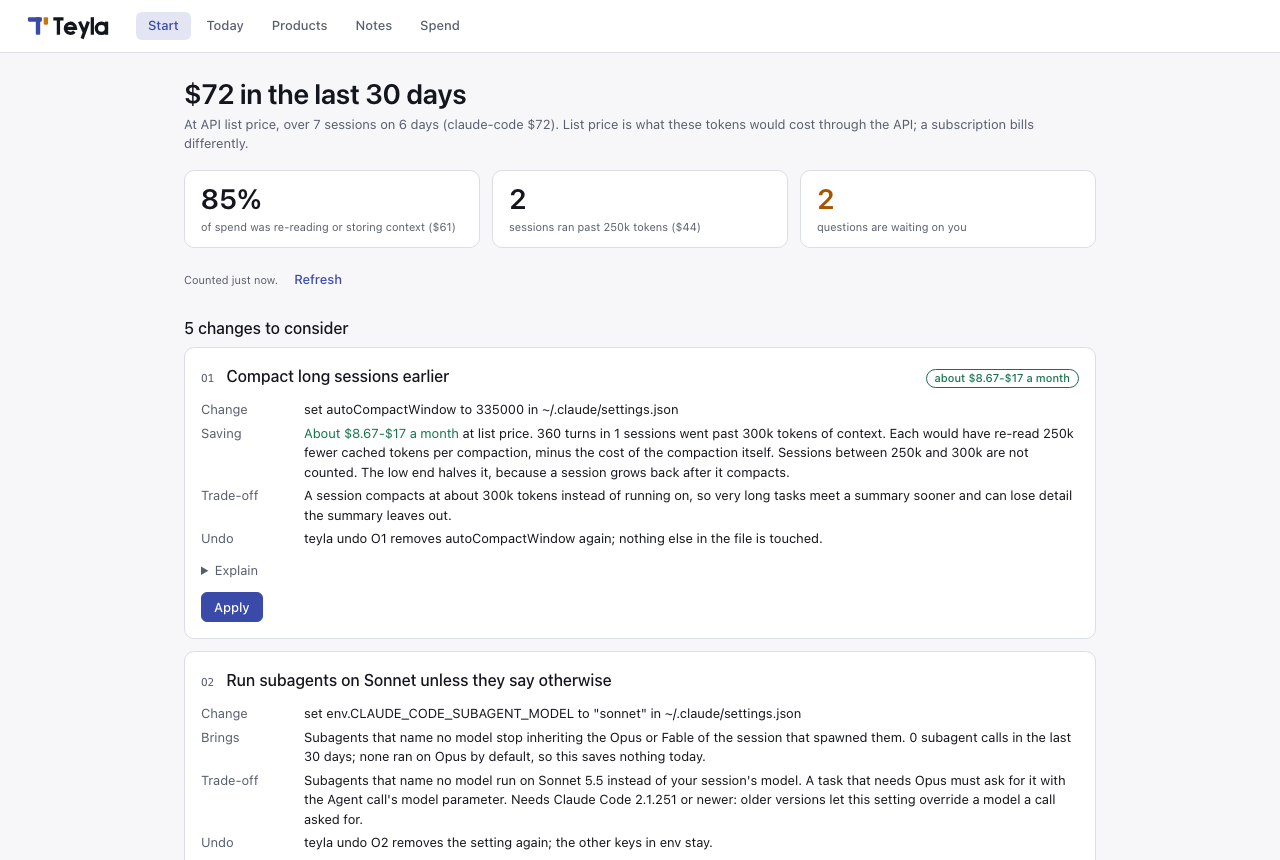
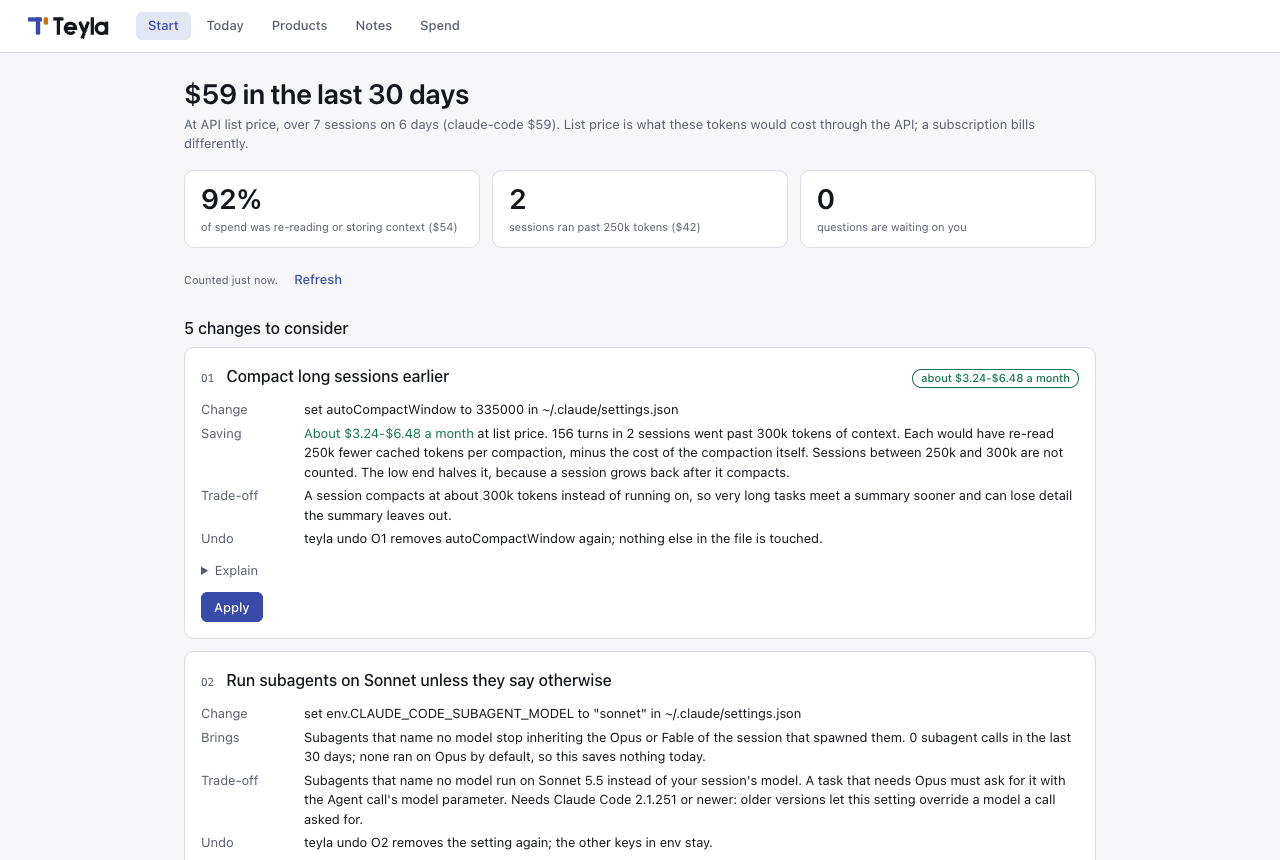
Refresh the Start screenshot from invented sessions; singular counts on the Start page

diff --git a/src/teyla/web/app.js b/src/teyla/web/app.js
@@ -32,6 +32,7 @@
 
   const money = (x) => (x >= 10 ? "$" + Math.round(x).toLocaleString("en-US") : "$" + x.toFixed(2));
   const pct = (x) => Math.round(x * 100) + "%";
+  const count = (n, word) => n + " " + word + (n === 1 ? "" : "s");
   const sleep = (ms) => new Promise((r) => setTimeout(r, ms));
 
   function ageS(s) {
@@ -187,10 +188,10 @@
       const t = (num, lbl, cls) => h("div", { class: "stat" }, h("div", { class: "num " + (cls || "") }, num), h("div", { class: "lbl" }, lbl));
       const out = [
         t(pct(d.context_share), "of spend was re-reading or storing context (" + money(d.context_usd) + ")"),
-        t(String(d.long_sessions), "sessions ran past " + Math.round(d.long_context_tokens / 1000) + "k tokens (" + money(d.long_sessions_usd) + ")"),
+        t(String(d.long_sessions), (d.long_sessions === 1 ? "session" : "sessions") + " ran past " + Math.round(d.long_context_tokens / 1000) + "k tokens (" + money(d.long_sessions_usd) + ")"),
       ];
       if (d.subagent_usd) out.push(t(money(d.subagent_usd), "went to subagents; Opus ran " + pct(d.subagent_opus_share) + " of it"));
-      out.push(t(String(d.waiting_asks), "questions are waiting on you", d.waiting_asks ? "needs" : ""));
+      out.push(t(String(d.waiting_asks), d.waiting_asks === 1 ? "question is waiting on you" : "questions are waiting on you", d.waiting_asks ? "needs" : ""));
       return h("div", { class: "stats" }, out);
     }
 
@@ -206,7 +207,7 @@
       const by = Object.entries(d.by_harness).slice(0, 3).map(([k, v]) => k + " " + money(v)).join(", ");
       return [
         h("h1", null, money(d.total_usd) + " in the last " + d.days + " days"),
-        h("p", { class: "sub" }, "At API list price, over " + d.sessions + " sessions on " + d.active_days + " days" + (by ? " (" + by + ")" : "") + ". " + d.note),
+        h("p", { class: "sub" }, "At API list price, over " + count(d.sessions, "session") + " on " + count(d.active_days, "day") + (by ? " (" + by + ")" : "") + ". " + d.note),
         tiles(d),
       ];
     }

diff --git a/site/public/index.html b/site/public/index.html
@@ -38,7 +38,7 @@
     <div class="wrap">
       <h2>The first run shows what 30 days cost</h2>
       <p class="sub">Teyla prices the sessions already on your disk, then lists the changes that save money, each with its saving, trade-off and undo.</p>
-      <div class="shot"><img src="/img/web-start.png" alt="The Start page of teyla web:  in the last 30 days, 85% spent on context, and the first change with its saving, trade-off and undo" width="1280" height="860" loading="lazy"></div>
+      <div class="shot"><img src="/img/web-start.png" alt="The Start page of teyla web:  in the last 30 days, 92% spent on context, and the first change with its saving, trade-off and undo" width="1280" height="860" loading="lazy"></div>
       <p class="caption">Sample data. List price is what the tokens would cost through the API; a subscription bills differently.</p>
     </div>
   </section>
